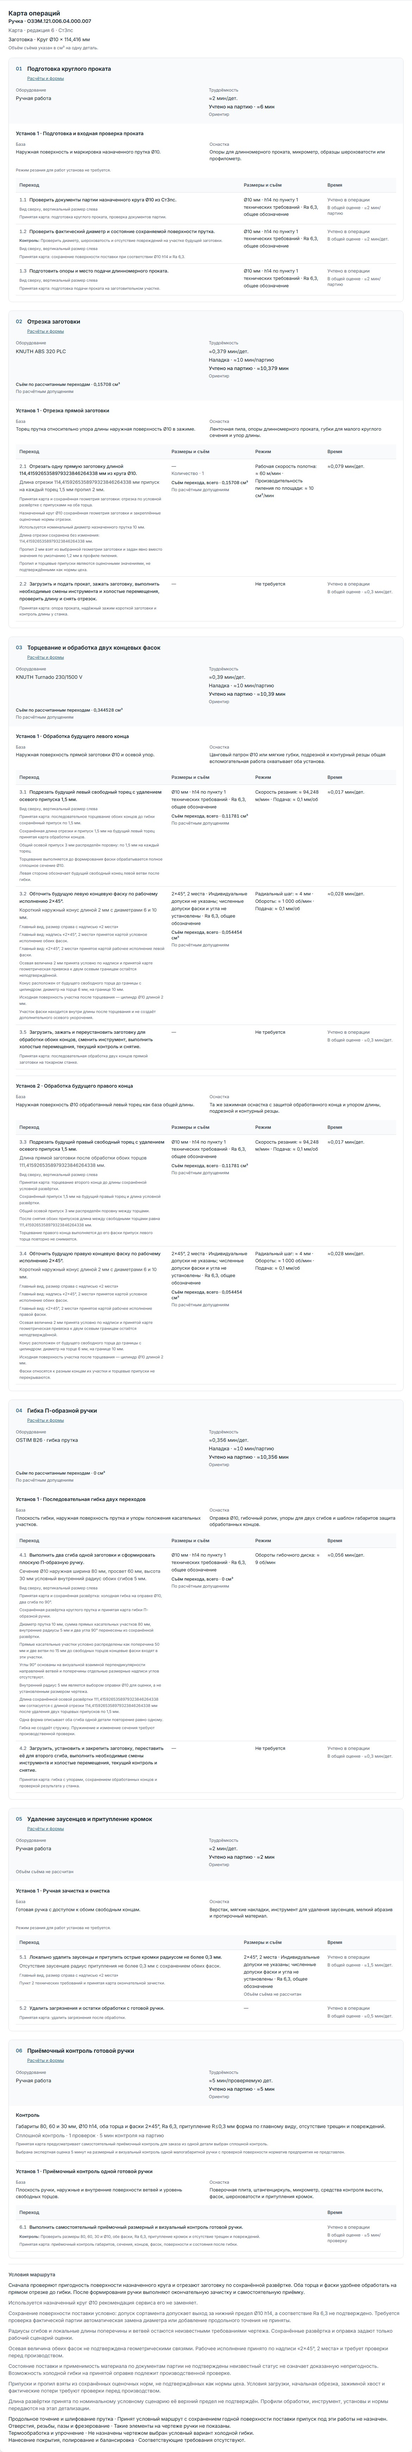
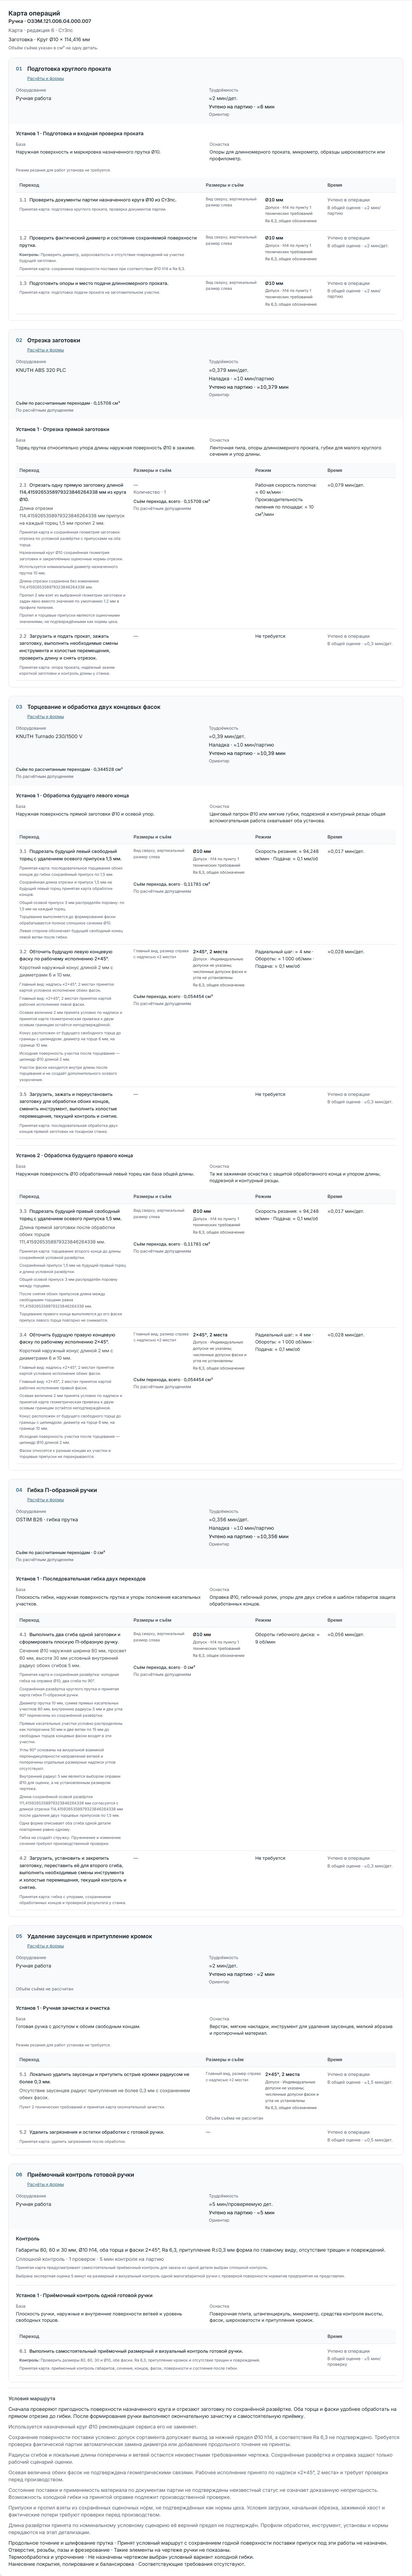
Обновить снимки маршрутов с привязками размеров

diff --git a/docs/qa/2026-11-13-route-dimensions.md b/docs/qa/2026-11-13-route-dimensions.md
@@ -1,0 +1,41 @@
+# Сопоставление размеров в снимках полного маршрута
+
+Дата: 2026-11-13. Статус: выполнено, проверено локально.
+
+В исходном интерфейсе Metall размерные привязки выводились слева списком,
+а размеры справа — общей строкой. Исправлен общий компонент полного маршрута:
+каждое место на чертеже теперь стоит в одной строке со своим размером,
+допуском и шероховатостью. На мобильном экране пара переносится целиком
+в один вертикальный блок. Повторяющиеся обозначения сохраняются отдельно.
+
+Обновлены shaft-route.jpg, handle-route.jpg и fitting-route.jpg. Паспорта,
+сметы и инженерные данные остались прежними. Изображения получены из
+изолированной сборки текущего интерфейса с сохранёнными ответами; рабочий
+API и модели не запускались. Окно чертежа закрыто перед съёмкой, чтобы оно
+не перекрывало таблицу. Из кадра исключены только прежние служебные пояснения.
+
+Проверены 57 пар вала, 9 ручки и 30 штуцера на ширинах 1500, 1024, 390 и
+320 px. Все 384 проверки соответствия источника, значения, допуска и
+шероховатости успешны; переполнений нет. Отдельно проверены одинаковые Ø20
+с разными источниками и допусками, а также запись без источника. Хеши
+сохранённых инженерных данных до и после совпадают.
+
+Протокол, сборка интерфейса, снимки перехода 3.3 и контрольные суммы:
+`.evidence/route-dimensions-2026-11-13/`. Исходная реализация и проверка
+описаны в Metall D355. Прежние контрольные суммы трёх маршрутов относятся
+к изображениям до исправления; их версия сохранена в коммитах a8e8cdf и
+c019b91. Остальные шесть изображений сохраняют прежние контрольные суммы.
+
+Изменения фиксируются локально, push и публикация не выполняются.
+
+## Проверка лендинга
+
+Сборка и проверка публичных материалов успешны: 15 страниц, 716 ссылок. Браузерная проверка — 24 сочетания страницы, ширины и темы, 18 проверок просмотрщика. Все девять изображений совпадают с файлами сборки по SHA-256. Открытие по ширине, ручной масштаб, задержанная загрузка и возврат фокуса сохранены. Ошибок страницы и внешних запросов нет; сервер проверки остановлен.
+
+| Обновлённый снимок | Размер, px | SHA-256 |
+| --- | --- | --- |
+| shaft-route.jpg | 1170 × 13777 | fc6d6979ae1f4bd22446bc3b62e00282d9763865acfb04c6b71b8b2d60e26d2f |
+| handle-route.jpg | 1170 × 7314 | 51f813b84771ec105e6288946483f2dac9c86542f0994808d329ae5ad01cfeca |
+| fitting-route.jpg | 1170 × 9404 | 00c378477fa333c52cd206ebc70f8ba9a6a9ba41f6010d9ad5a5dc55f0b98228 |
+
+Исправление основного интерфейса закреплено в metall-dev-2 коммитом eced9789. TypeScript и 16 тестов редактора C4_metall прошли.

diff --git a/docs/qa/2026-11-13-results-refresh.md b/docs/qa/2026-11-13-results-refresh.md
@@ -5,6 +5,11 @@
 Снимки, описания и отображение результатов закреплены локальным коммитом
 a8e8cdf. Инструкция редактирования и результаты проверки фиксируются отдельно.
 
+Позднее исправлено сопоставление источников и значений в полном маршруте:
+[проверка обновлённых трёх снимков](2026-11-13-route-dimensions.md).
+Приведённые ниже хеши маршрутов относятся к версии до этого исправления;
+хеши паспортов и смет сохраняются.
+
 ## Результат
 
 Заменены три прежних снимка паспортов. Добавлены шесть длинных снимков:
